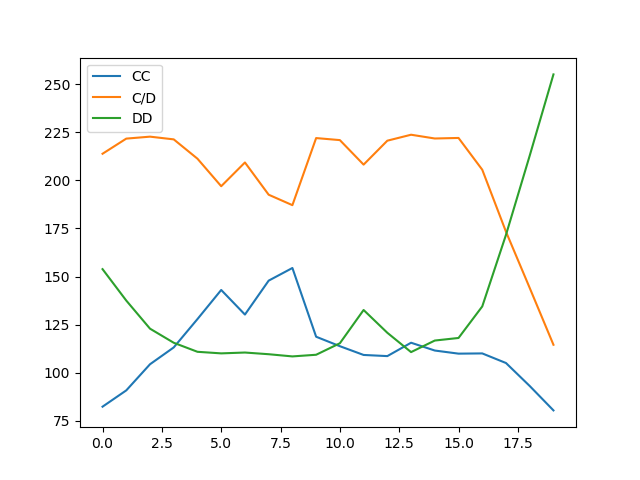
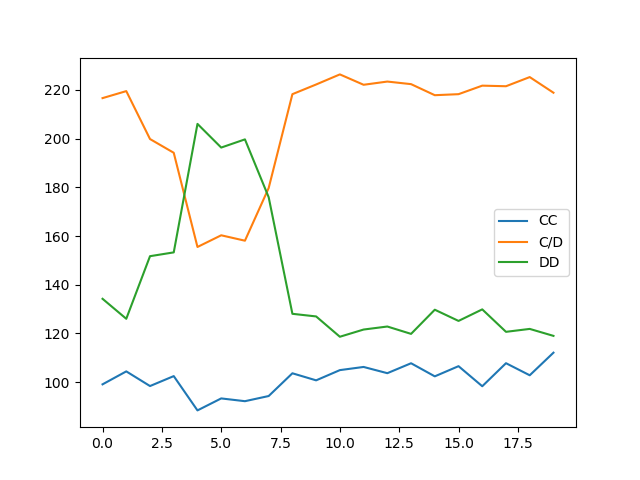
Additive Mutation

diff --git a/main.py b/main.py
@@ -68,9 +68,7 @@ class MDP_Learner:
             for j in range(2,self.matrix.shape[1]):
                 # self.matrix[i,j] *= (1 + np.random.random() * rate - rate/2) 
                 # self.matrix[i,j] += (np.random.random() * rate) - rate/2 
-                positive_b = (np.random.normal(loc=0, scale=(rate**2)))
-                negative_b = (np.random.normal(loc=-1, scale=((0.5)**2)) * rate)
-                self.matrix[i,j] += np.random.choice([positive_b], size = 1)
+                self.matrix[i,j] += np.random.normal(loc=0, scale=rate)
                 self.matrix[i,j] = max(0, min(1, self.matrix[i,j]))
                 
 
@@ -170,7 +168,7 @@ with open(name + ".csv", "w", newline="") as f:
     f_writer.writerow(["Seed", rand_seed])
     f_writer.writerow(["Action", "Start. P", "C|C", "C|D", ])
     for i in range(len(Pops.pops)):
-        mat = np.rand Pops.pops[i].matrix
+        mat = Pops.pops[i].matrix
         for r in range(mat.shape[0]):
             for c in range(1,mat.shape[1]):
                 mat[r,c] = round(mat[r,c]*100)/100
